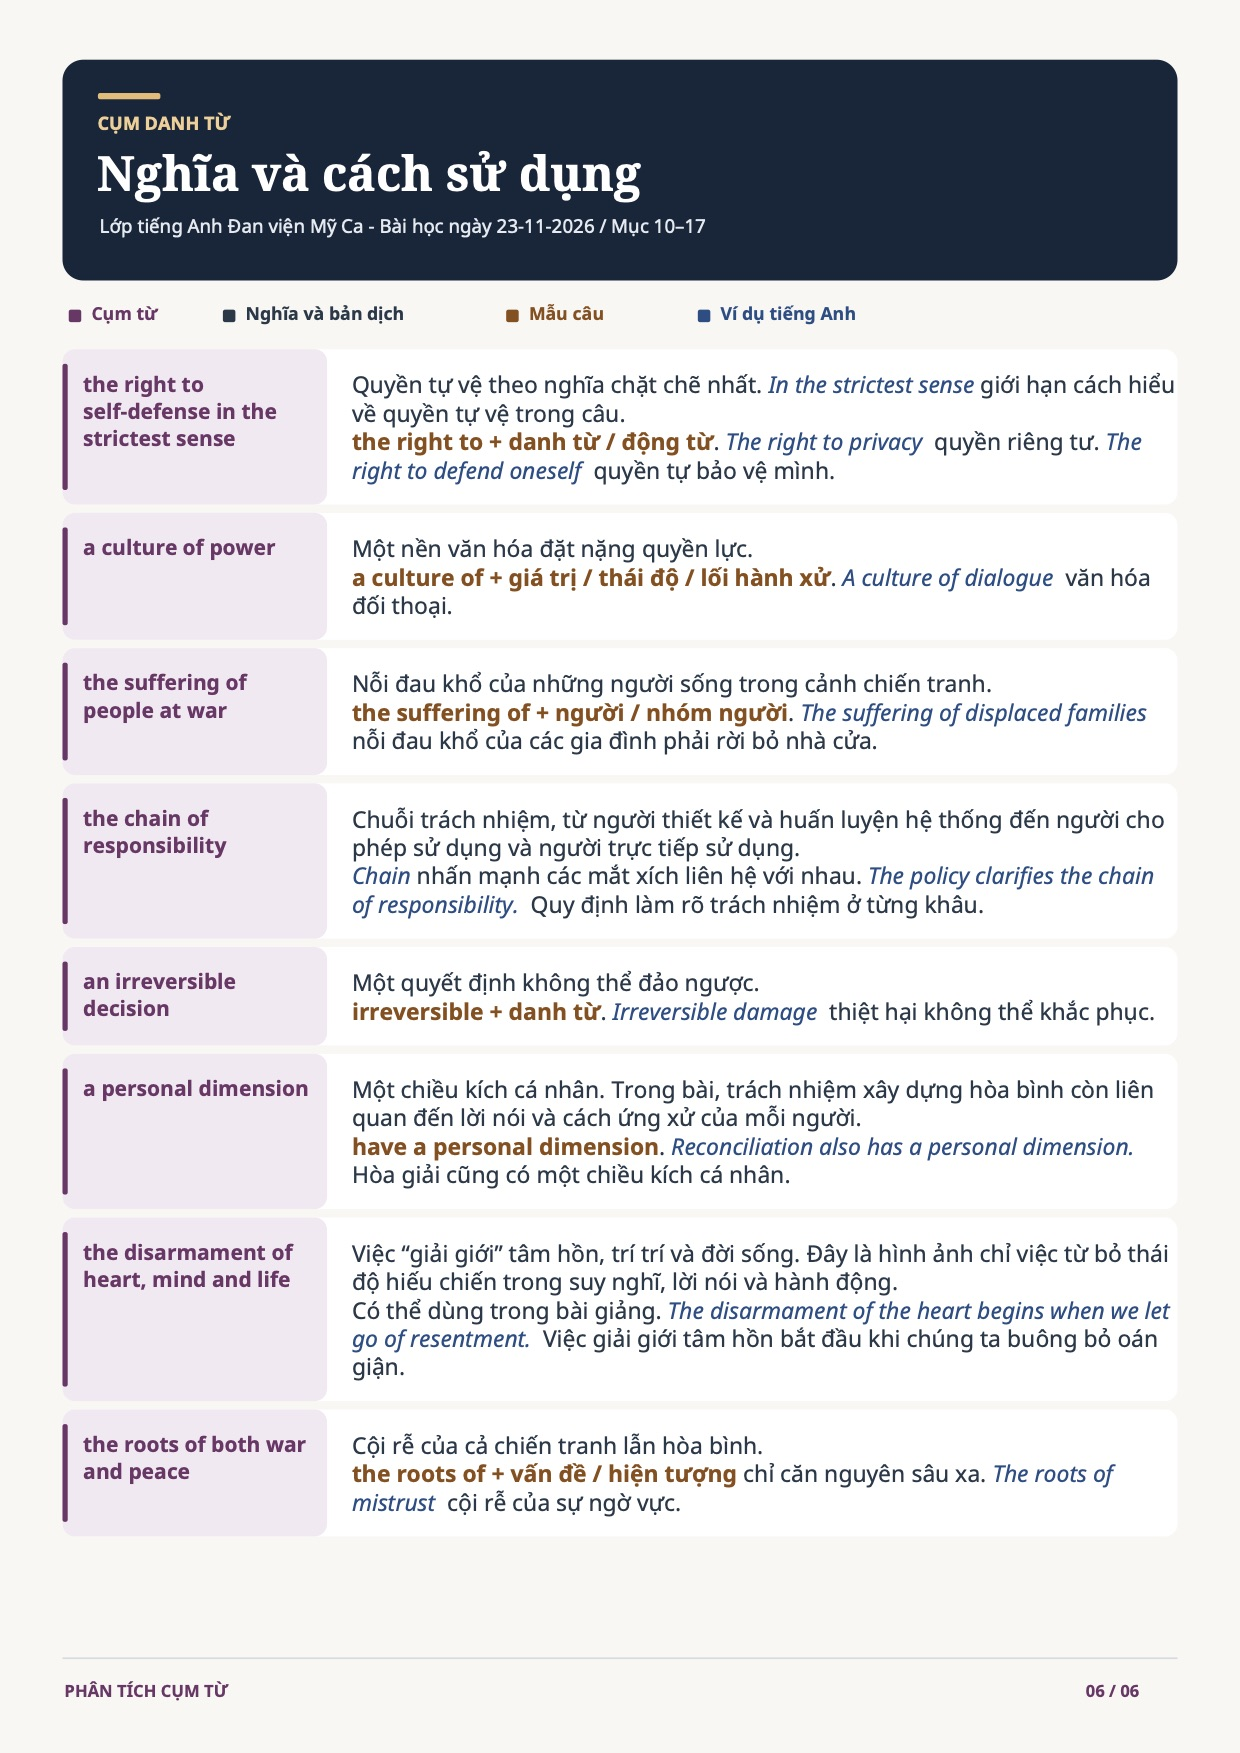
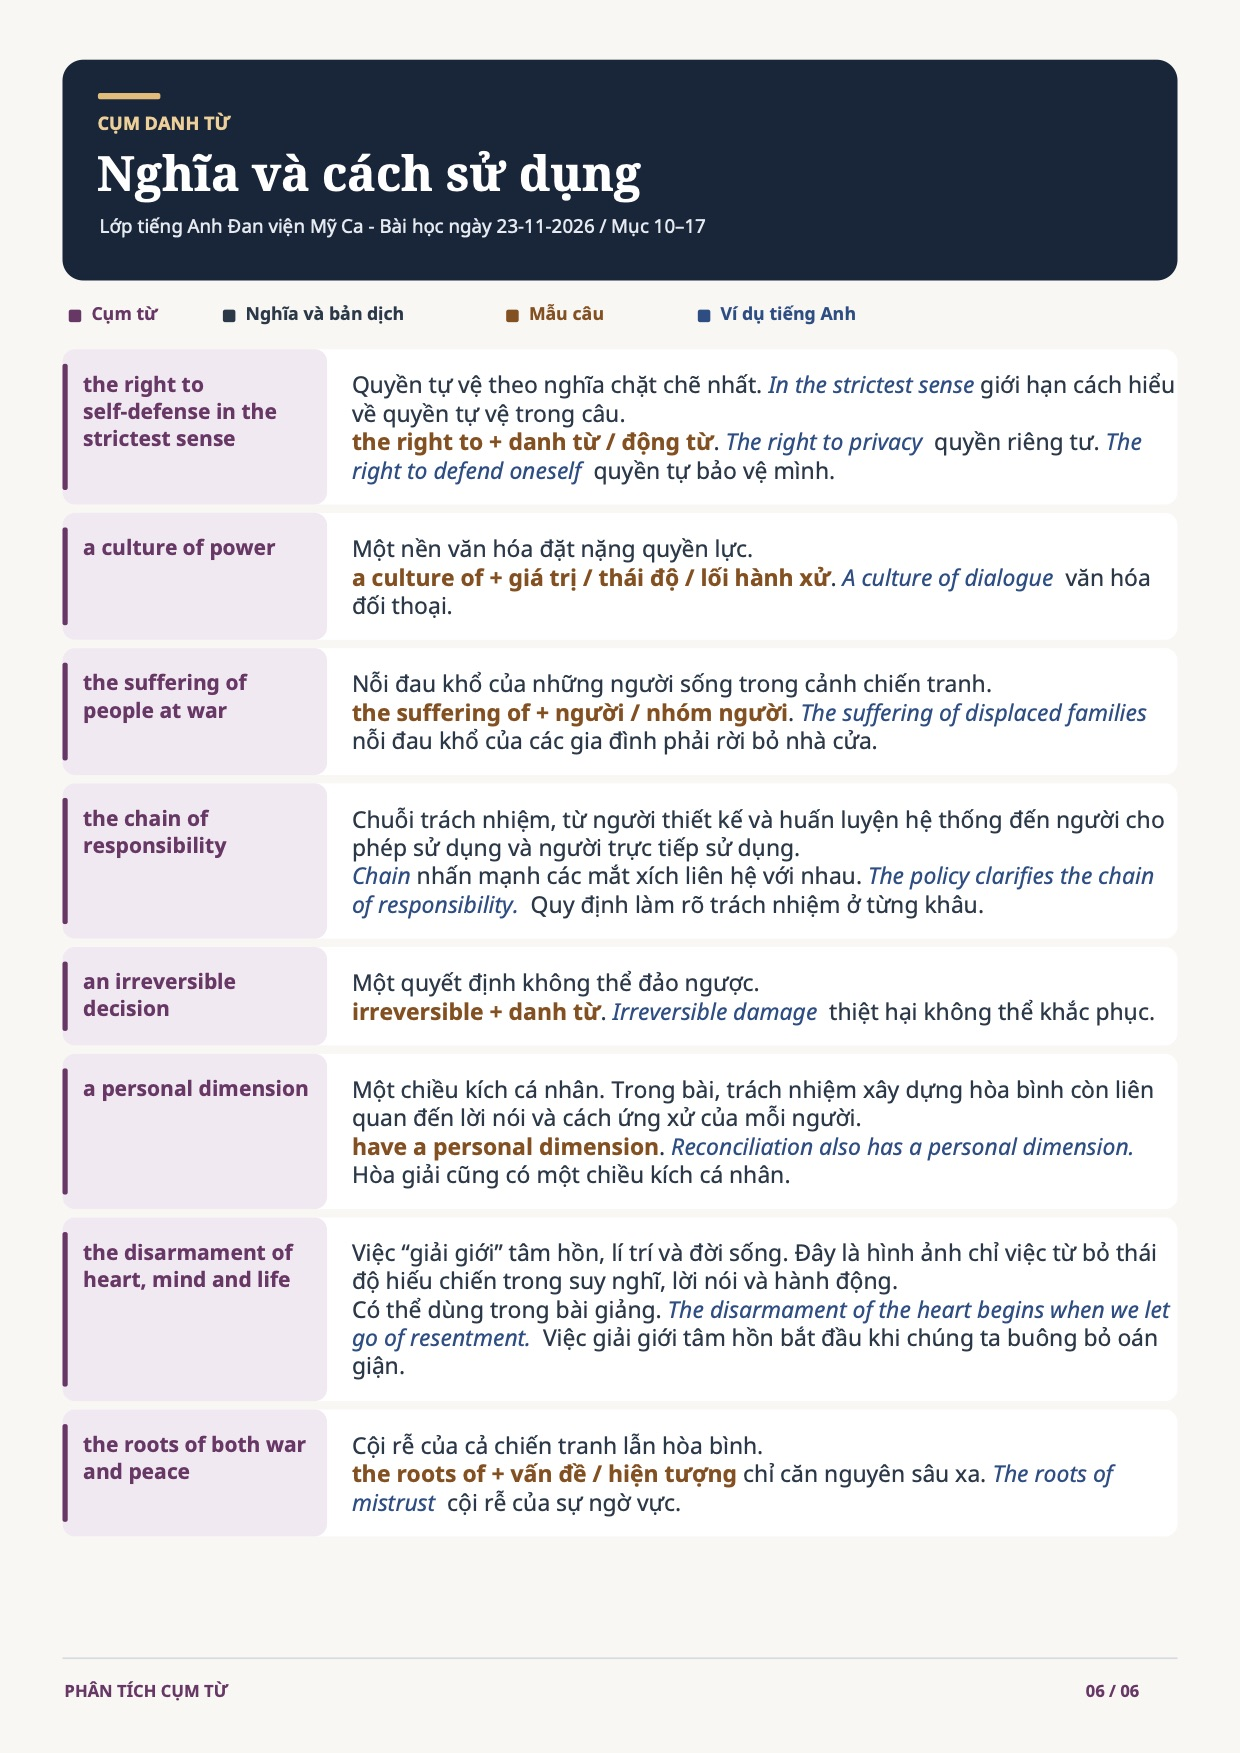
Update 23 Nov lesson: corrected PDF and Vatican News source link

Changed region(s): [[0.2758, 0.7085, 0.95, 0.8009]]

diff --git a/_posts/2026-11-23-lop-tieng-anh-dan-vien-my-ca-23-11-2026.md b/_posts/2026-11-23-lop-tieng-anh-dan-vien-my-ca-23-11-2026.md
@@ -27,6 +27,8 @@ Bài học hôm nay dựa trên một bản tin của Vatican News. Trong bản 
 
 Mỗi cụm từ đều có nghĩa tiếng Việt, mẫu câu và ví dụ đặt câu.
 
+*Nguồn bài đọc: [Vatican News, "Cardinal Czerny Urges Human Accountability For AI In Warfare"](https://www.vaticannews.va/en/vatican-city/news/2026-11/cardinal-michael-czerny-magnifica-humanitas-just-war-ai.html).*
+
 <p class="downloads">
   <a class="button" href="{{ page.doc_pdf | relative_url }}">Tải bản PDF</a>
 </p>
